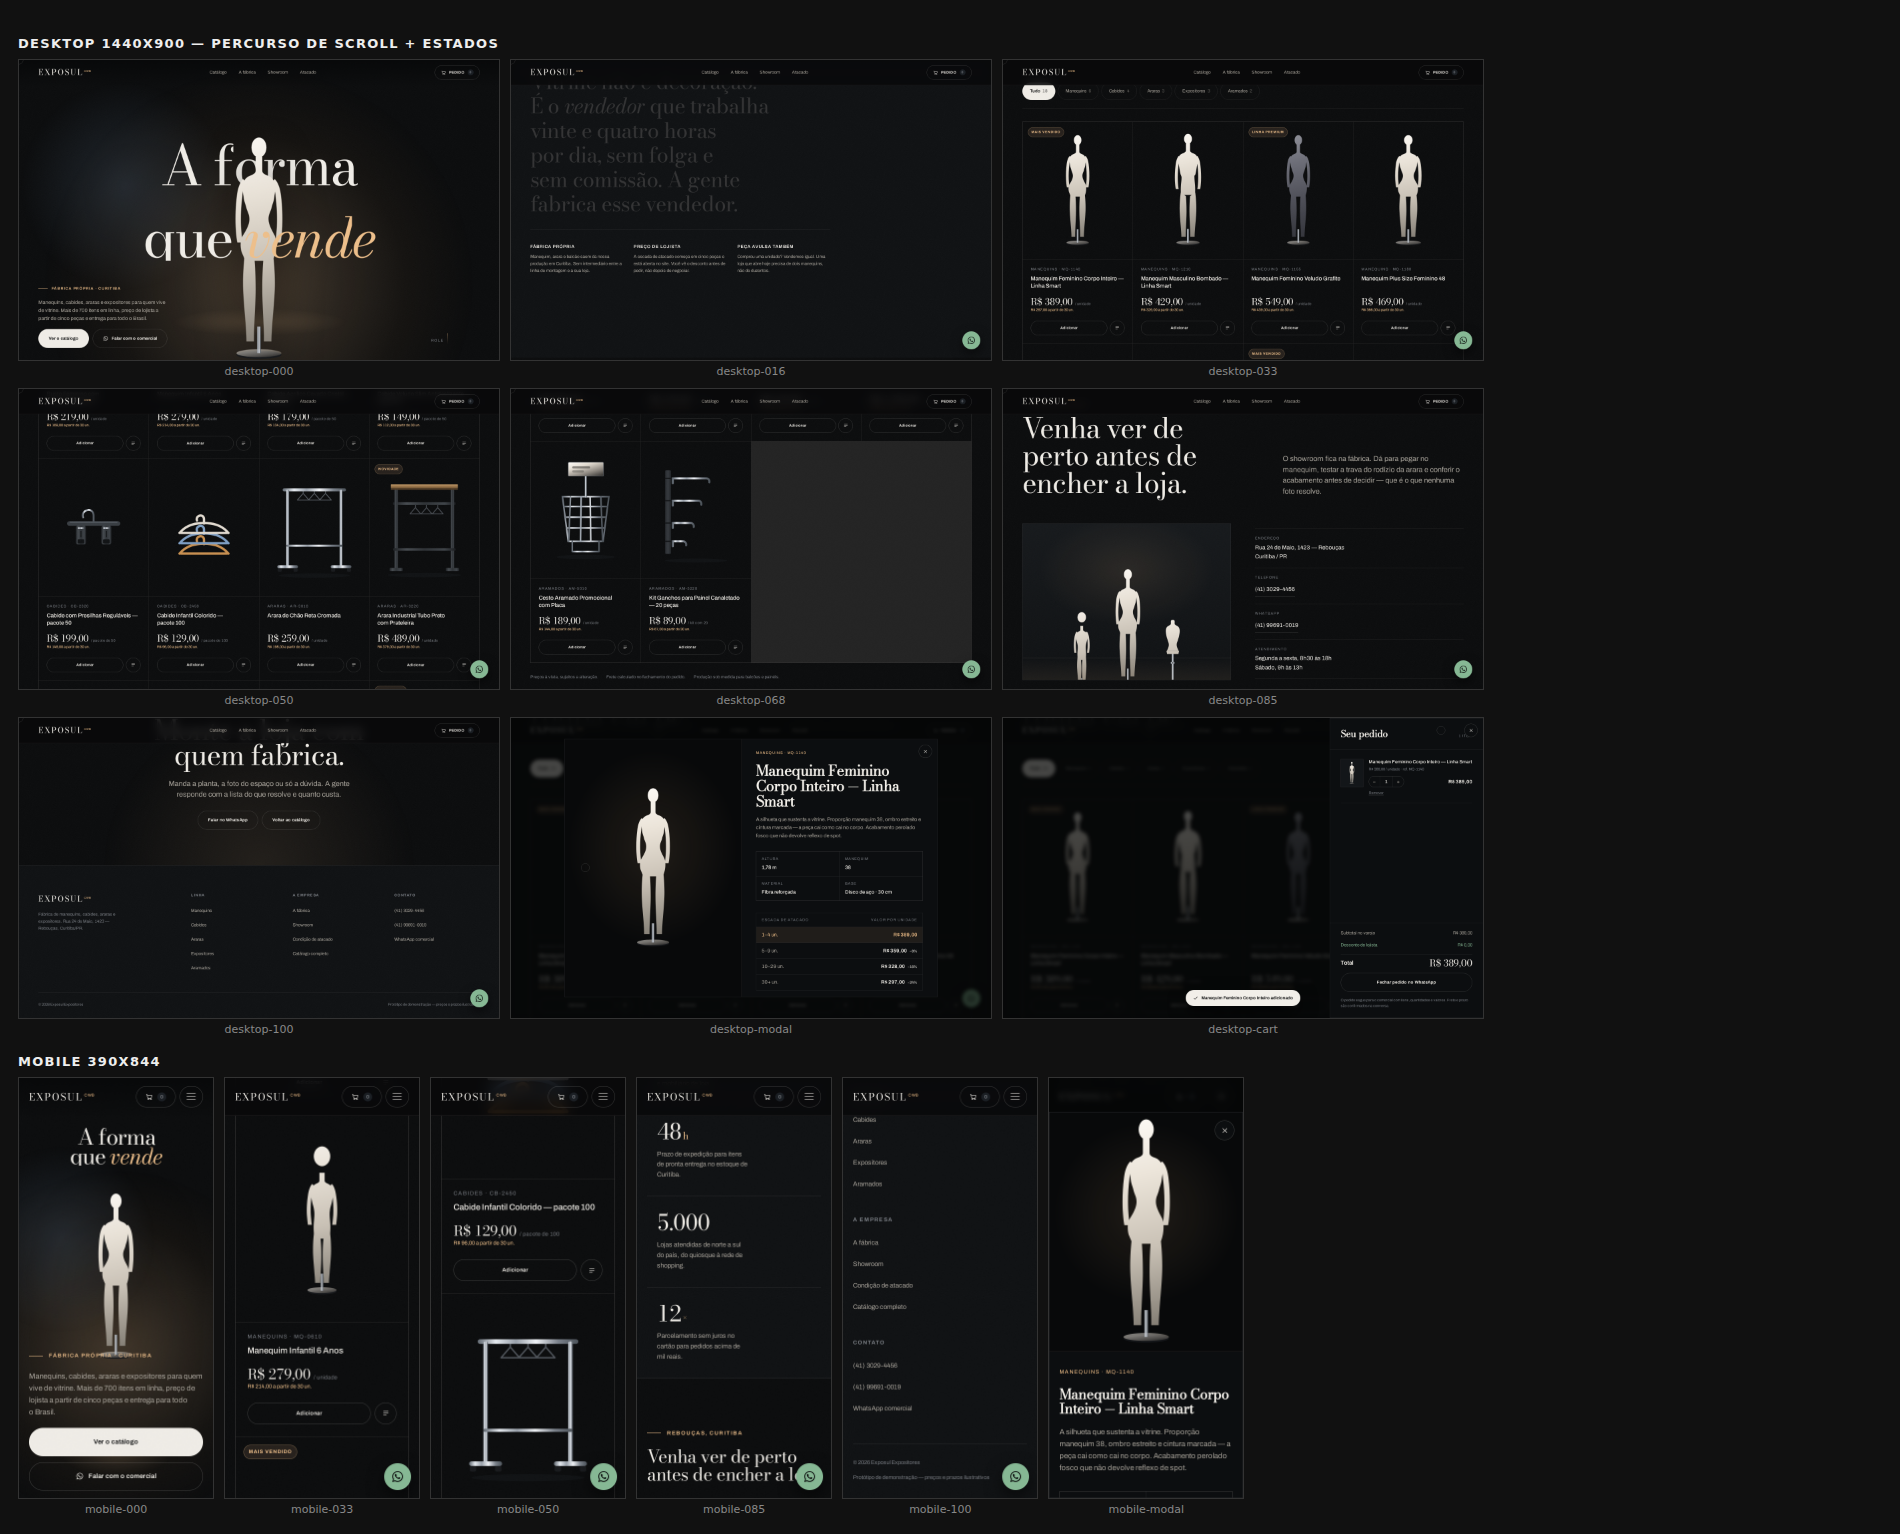
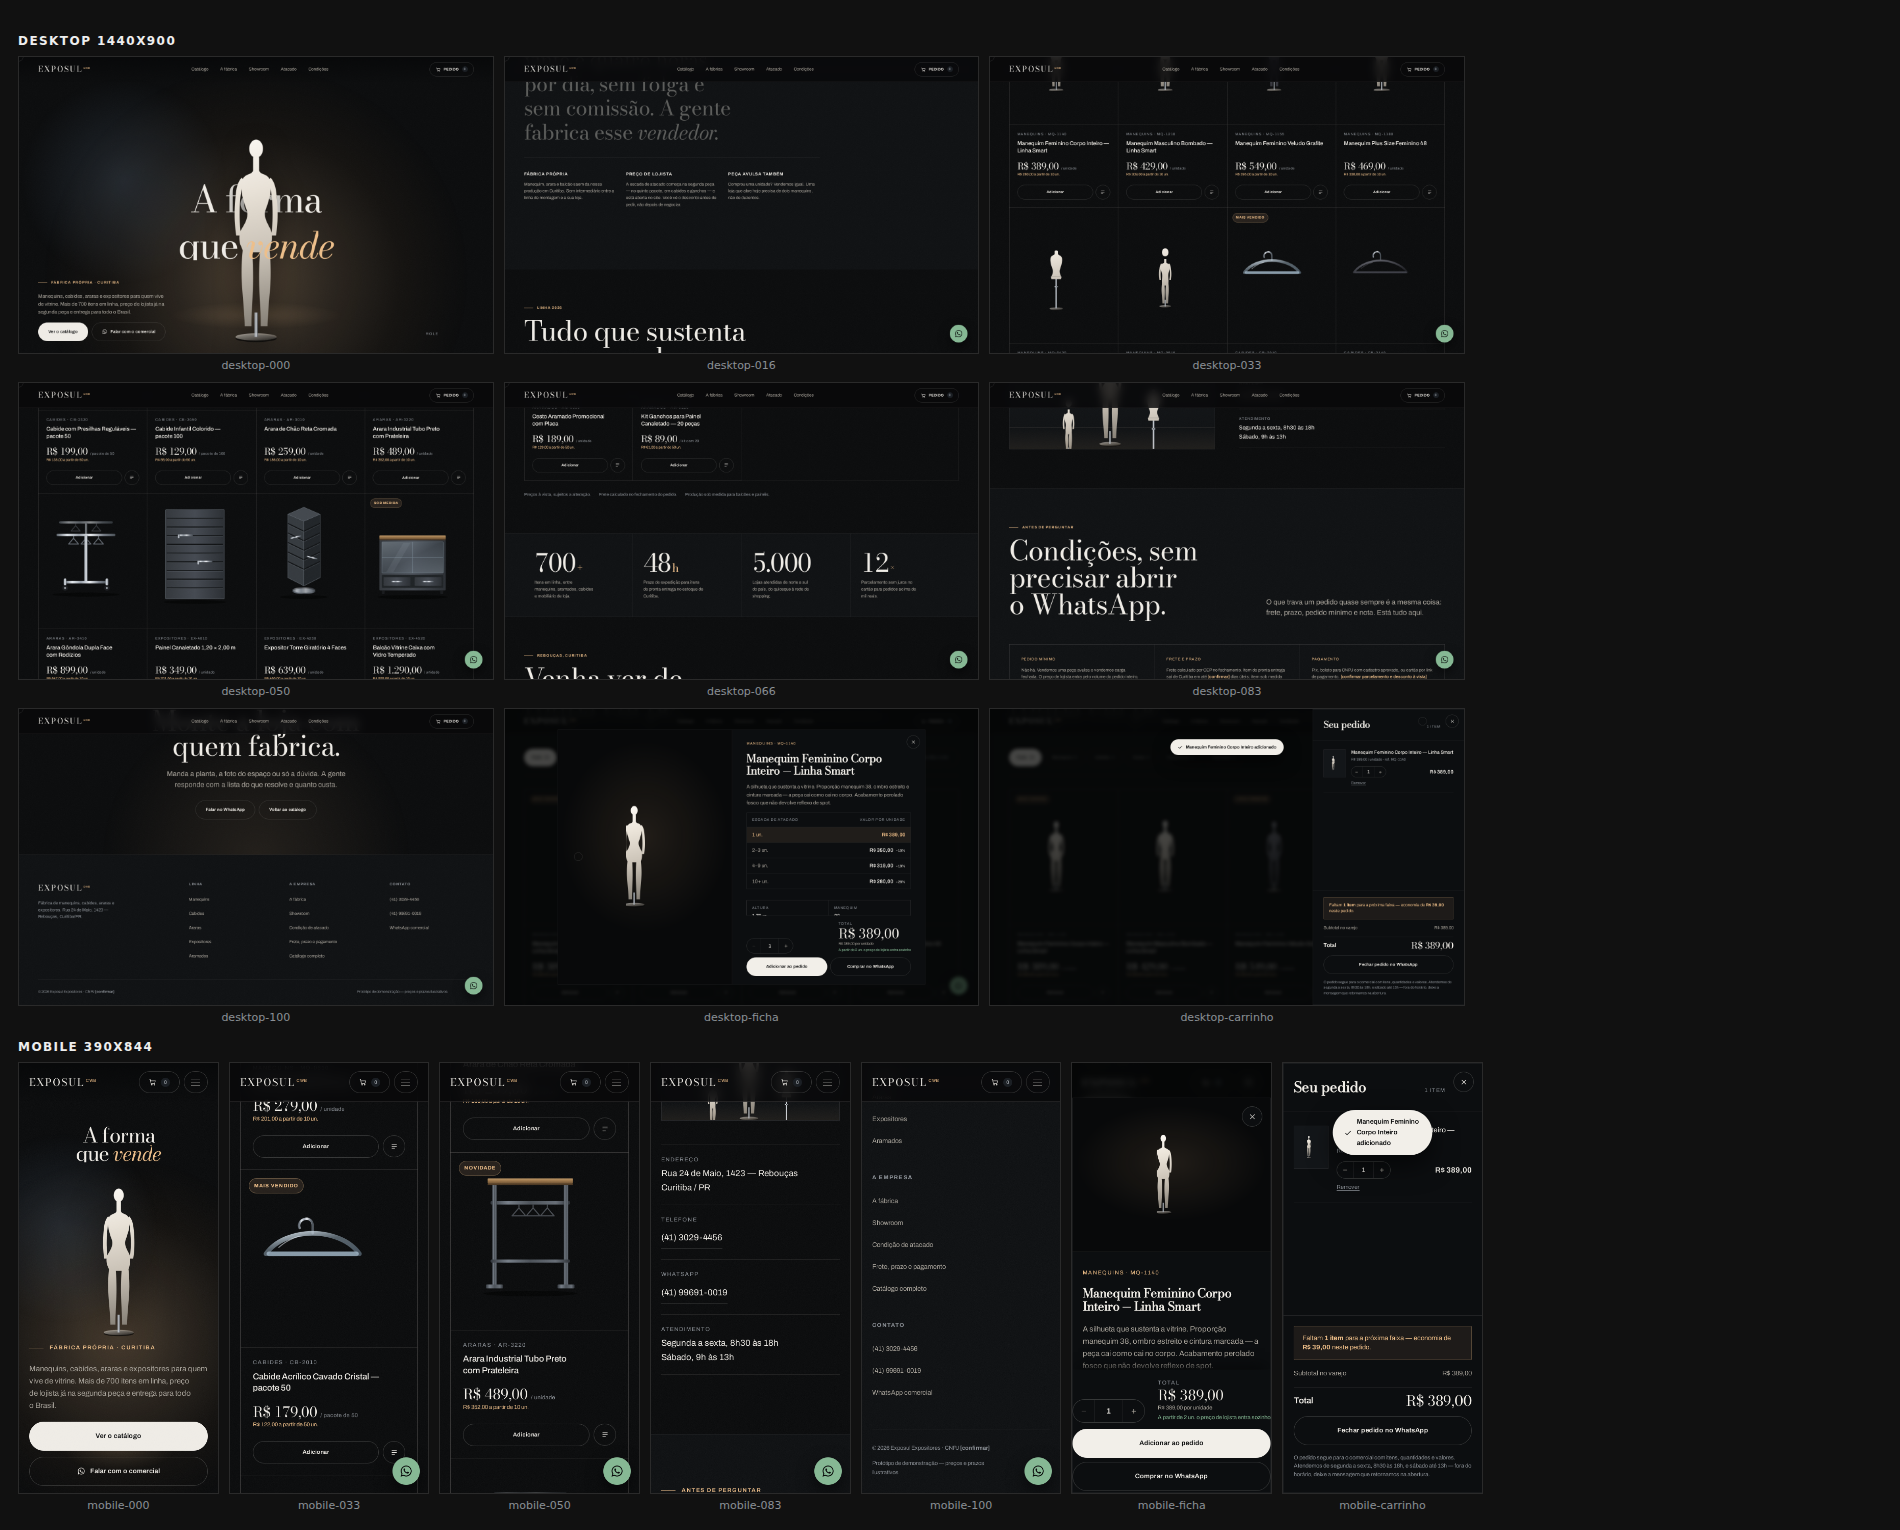
Fecha a rodada de fiscalização e atualiza a documentação
Pílula de busca inteira virou <label>, então clicar em qualquer ponto dela
foca o campo — antes só os 23px do input respondiam.

README passa a listar tudo que precisa de confirmação da Exposul, incluindo
as afirmações técnicas das fichas (capacidade de carga das araras, "40%
mais peça na mesma arara", metragem linear da torre) e a contradição do
balcão vitrine, anunciado como sob medida mas com preço fixo e escada de
atacado. Documenta também o raciocínio por trás das faixas por natureza do
item e o alerta sobre publicar um spread diferente do praticado.

Smoke test final, todo verificado em Chromium: contraste do contador dos
filtros em 6,19:1 e 7,74:1, ficha abre e fecha por teclado com foco
entrando e voltando, carrinho sobrevive ao reload, link direto
#produto/<id> abre a ficha certa.

Claude-Session: https://claude.ai/code/session_01B6LmdpYXgHezDbdX1jaevu

diff --git a/index.html b/index.html
@@ -165,12 +165,12 @@ setTimeout(function () {
 
     <div class="catalog__tools">
       <div class="filters" id="filters" role="group" aria-label="Filtrar por categoria"></div>
-      <div class="search">
+      <label class="search" for="search">
         <svg viewBox="0 0 24 24" fill="none" stroke="currentColor" stroke-width="1.7" aria-hidden="true">
           <circle cx="11" cy="11" r="7"/><path d="m20 20-4.3-4.3"/>
         </svg>
         <input type="search" id="search" placeholder="Buscar por nome ou referência (MQ-1140)" aria-label="Buscar no catálogo" autocomplete="off">
-      </div>
+      </label>
     </div>
 
     <noscript>

diff --git a/README.md b/README.md
@@ -55,10 +55,24 @@ desta lista com a Exposul antes de colocar no ar.**
 | `js/products.js` | **Escada de atacado**: os degraus (5 / 10 / 30 un.) e os percentuais de desconto |
 | `index.html` — seção Números | `700+ itens`, `48h de expedição`, `5.000 lojas`, `12× sem juros` |
 | `index.html` — Showroom | Horário de atendimento |
-| `index.html` — Manifesto | "A escada de atacado começa em cinco peças" |
+| `index.html` — Manifesto | "começa na segunda peça — no quinto pacote, em cabides e ganchos" |
+| `index.html` — Condições | Prazo de expedição, prazo de produção sob medida, parcelamento, desconto à vista e prazo de garantia (marcados como `[confirmar]` na própria página) |
+| `index.html` — Rodapé | CNPJ e razão social |
+| `js/products.js` | Afirmações técnicas: capacidade de carga das araras (60/80/120 kg), "40% mais peça na mesma arara", "4,8 m lineares" da torre, regulagem do busto |
+| `js/products.js` | O balcão vitrine é anunciado como sob medida **e** tem preço fixo com escada de atacado — decidir se é de linha ou sob medida |
+| Etiquetas dos cards | "Mais vendido", "Novidade", "Linha premium", "Sob medida" — confirmar se refletem a realidade comercial |
 
 Trechos com dado de demonstração estão marcados com `<!-- PLACEHOLDER: ... -->`
 no HTML e com um bloco de aviso no topo de `js/products.js`.
+
+**Sobre a escada de atacado:** as faixas foram desenhadas por natureza do
+item — manequim, arara e balcão abrem o desconto na **segunda** peça (a
+compra real de abertura de loja são duas ou três, não cinco); cabide e
+gancho abrem no **quinto** pacote, que é onde o lojista compara centavo. A
+faixa vale pelo **volume do pedido inteiro**, não item por item. Os
+percentuais (10/18/28% e 12/22/32%) são plausíveis para fábrica direta, mas
+**precisam ser confirmados**: publicar um spread menor que o real entrega o
+lojista ao concorrente; maior que o real, vende o que não se honra.
 
 **Já são reais e conferidos:** razão social, endereço (Rua 24 de Maio, 1423 —
 Rebouças, Curitiba/PR), telefones ((41) 3029-4456 e (41) 99691-0019), e as
@@ -141,18 +155,26 @@ Chromium via Playwright, com scroll programático de ponta a ponta:
 |---|---|---|
 | FPS mediano | 60 | 60 |
 | FPS p95 | 59,5 | 59,9 |
-| Frames acima de 33 ms | 4 | 0 |
+| Frames acima de 33 ms | 3 | 0 |
 | Overflow horizontal | nenhum | nenhum |
 | Erros de console | nenhum | nenhum |
 
-Peso total da página: ~260 KB, sem nenhuma requisição a terceiros.
+Peso total: ~394 KB (inclui 117 KB de fontes embutidas e 136 KB de GSAP +
+Lenis), sem nenhuma requisição a terceiros.
+
+O hero foi verificado sem colisão entre o manequim, o título e o texto de
+apoio em nove proporções, de 1024×700 a 2560×1440.
 
 ---
 
 ## O que este MVP ainda não faz
 
-- Sem busca, ordenação ou paginação — com 700+ itens reais, isso passa a ser
-  necessário.
+- Busca por nome e por referência existe; **ordenação e paginação não**. Com
+  700+ itens reais, ambas passam a ser necessárias, junto com subcategorias
+  (Manequins → Feminino / Masculino / Infantil / Plus / Busto).
+- A ficha tem rota própria (`#produto/<id>`) para compartilhar o link, mas
+  não são páginas de verdade — para SEO de cauda longa ("manequim plus size
+  atacado"), cada produto precisa de uma URL indexável.
 - Sem gateway de pagamento: o pedido é montado no site e fechado no WhatsApp.
 - Sem cálculo de frete.
 - Sem cadastro de lojista nem preço por cliente.
